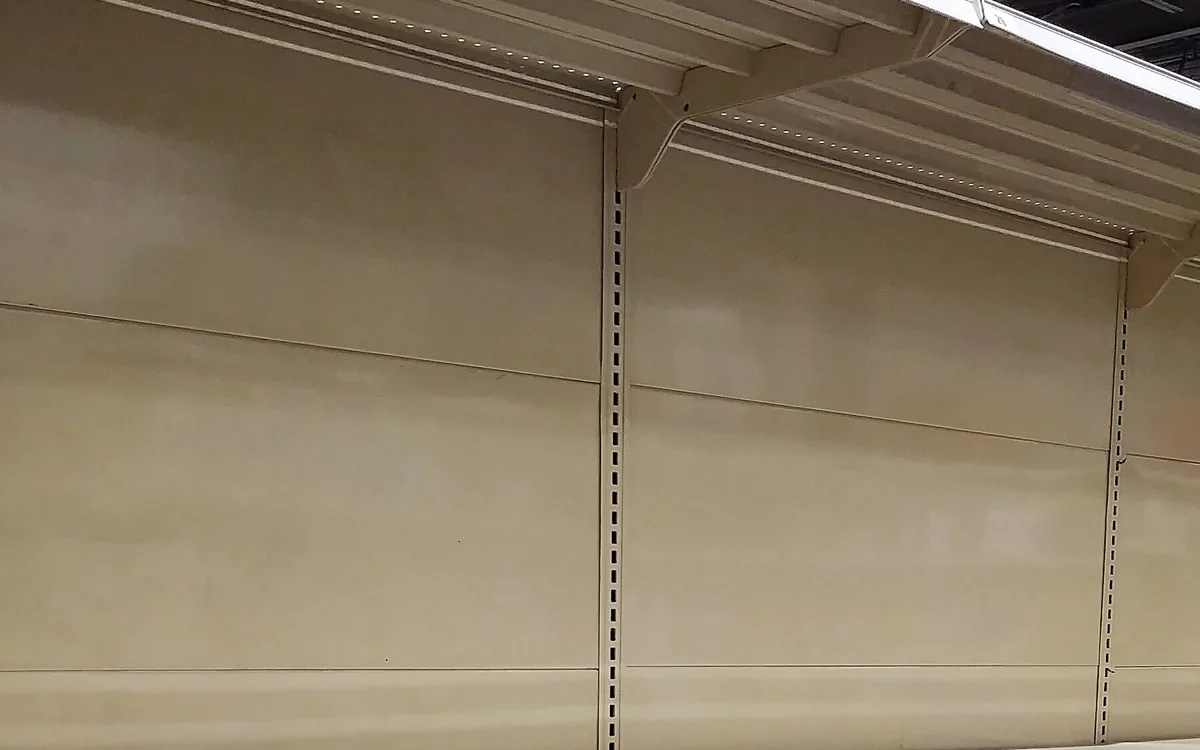
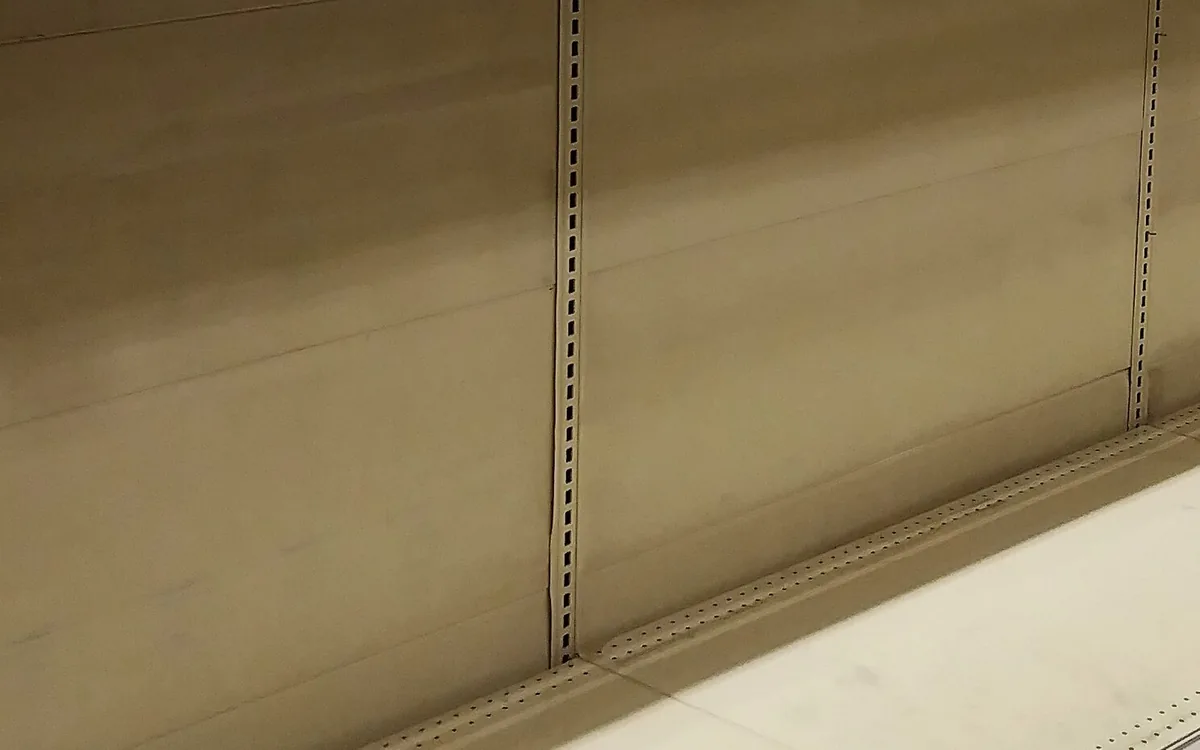
fix(infos): photos de rupture plus parlantes, sans texte ni prix — jeton 20261022fim
rupture-1 : flacons de pharmacie vides (domaine public) ; rupture-2 : coffret
à pharmacie avec un seul flacon restant (Wellcome, CC BY 4.0) ; rupture-3 :
l'étagère vide en perspective (ancienne rupture-1). Le rayon de pain avec prix
en dollars et le doublon de recadrage sont retirés. Crédits mis à jour.

diff --git a/crm/v2/index.html b/crm/v2/index.html
@@ -12,7 +12,7 @@
     if ('serviceWorker' in navigator) {
       window.addEventListener('load', function () {
         var hadController = !!navigator.serviceWorker.controller;
-        navigator.serviceWorker.register('sw.js?v=20261022fil').then(function (reg) {
+        navigator.serviceWorker.register('sw.js?v=20261022fim').then(function (reg) {
           try { reg.update(); } catch (e) {}   // vérifie tout de suite au chargement          // pendant une longue session, re-vérifier périodiquement s'il y a une nouvelle version
           setInterval(function () { try { reg.update(); } catch (e) {} }, 5 * 60 * 1000);
           // dès qu'on revient sur l'appli (onglet réactivé) : re-check -> bannière « Actualiser » si nouvelle version
@@ -189,17 +189,17 @@
     <link href="https://fonts.googleapis.com/css2?family=Geist+Mono:wght@400;500;600;700&family=Onest:wght@400;500;600;700;800&family=Martian+Mono:wght@400;500;600&display=swap" rel="stylesheet">
   </noscript>
   <link rel="dns-prefetch" href="https://images.weserv.nl">
-  <link rel="stylesheet" href="v2.css?v=20261022fil" />
-  <link rel="stylesheet" href="v2-pieces.css?v=20261022fil" />
-  <link rel="stylesheet" href="v2-accueil.css?v=20261022fil" />
-  <link rel="stylesheet" href="v2-accueil-cinq.css?v=20261022fil" />
-  <link rel="stylesheet" href="v2-accueil-widgets.css?v=20261022fil" />
-  <link rel="stylesheet" href="v2-motion.css?v=20261022fil" />
+  <link rel="stylesheet" href="v2.css?v=20261022fim" />
+  <link rel="stylesheet" href="v2-pieces.css?v=20261022fim" />
+  <link rel="stylesheet" href="v2-accueil.css?v=20261022fim" />
+  <link rel="stylesheet" href="v2-accueil-cinq.css?v=20261022fim" />
+  <link rel="stylesheet" href="v2-accueil-widgets.css?v=20261022fim" />
+  <link rel="stylesheet" href="v2-motion.css?v=20261022fim" />
   <!-- Peau « Verrière » (choix Will 12/08/2026) — chargée en dernier, purement additive -->
-  <link rel="stylesheet" href="v2-verriere.css?v=20261022fil" />
+  <link rel="stylesheet" href="v2-verriere.css?v=20261022fim" />
 
   <!-- PWA : installable sur l'écran d'accueil (iOS + Android) -->
-  <link rel="manifest" href="manifest.webmanifest?v=20261022fil" />
+  <link rel="manifest" href="manifest.webmanifest?v=20261022fim" />
   <link rel="apple-touch-icon" href="icons/apple-touch-icon.png" />  <meta name="apple-mobile-web-app-capable" content="yes" />
   <meta name="apple-mobile-web-app-status-bar-style" content="default" />
   <meta name="apple-mobile-web-app-title" content="JARVIS" />
@@ -222,7 +222,7 @@
   <!-- 11/09/2026 — perf : copie locale épinglée (même fichier que rdv.html). Servie par le
        service worker, plus de troisième domaine avant le premier rendu, et la version ne
        change plus sans nous. Même origine = traces d'erreur complètes. -->
-  <script src="vendor/supabase/supabase-2.112.2.min.js?v=20261022fil"></script>
+  <script src="vendor/supabase/supabase-2.112.2.min.js?v=20261022fim"></script>
   <script>
     window.V2_DATAV = '20261019b';   // version des données lazy (pharma-fr-data.js) — recherche & fiches prospect
     // La marque de l'OUTIL. Will, 19/08/2026 : « c'est JARVIS CRM ; où il y a
@@ -240,7 +240,7 @@
         window.V2_BRAND = { name: 'Escale Pharma', sub: 'Espace commercial', escale: true };
         document.title = 'Escale Pharma · Espace commercial';
         var mt = document.querySelector('meta[name="theme-color"]'); if (mt) mt.setAttribute('content', '#0B6E8F');
-        document.write('<link rel="stylesheet" href="../../escale/v2/escale-theme.css?v=20261022fil">');
+        document.write('<link rel="stylesheet" href="../../escale/v2/escale-theme.css?v=20261022fim">');
       }
     } catch (e) {}
     window.SUPABASE_URL = 'https://iyvavhnlhxksokkerkos.supabase.co';
@@ -256,8 +256,8 @@
     };
   </script>
   <!-- 16/10/2026 — « La garde-robe » : huit habillages de toute l'app (matière, lumière, police). Posé AVANT le premier dessin. -->
-  <link rel="stylesheet" href="v2-hab.css?v=20261022fil" />
-  <script src="v2-hab.js?v=20261022fil"></script>
+  <link rel="stylesheet" href="v2-hab.css?v=20261022fim" />
+  <script src="v2-hab.js?v=20261022fim"></script>
 </head>
 <body>
   <div class="v2-halo"></div>
@@ -265,12 +265,12 @@
 
   <!-- ═══ SOCLE (≈ 275 Ko) : le strict nécessaire à l'écran de connexion — 11/09/2026 ═══
        Avant : 80 scripts (6,05 Mo) chargés et exécutés AVANT le premier pixel. -->
-  <script src="v2-icons.js?v=20261022fil"></script>
+  <script src="v2-icons.js?v=20261022fim"></script>
   <!-- Table d'alias groupements (canonicalisation) : fusionne les doublons partout -->
-  <script src="groupement-alias.js?v=20261022fil"></script>
-  <script src="v2-boot.js?v=20261022fil"></script>
+  <script src="groupement-alias.js?v=20261022fim"></script>
+  <script src="v2-boot.js?v=20261022fim"></script>
   <!-- Profil commercial : lu DANS loadData (corrections manuelles de groupement) → avant les données -->
-  <script src="v2-profil.js?v=20261022fil"></script>
+  <script src="v2-profil.js?v=20261022fim"></script>
   <script>
     // ═══ LE RESTE (≈ 5,4 Mo) : MÊME ORDRE qu'avant, posé par V2.chargerScripts (v2-boot.js)
     // juste après le premier rendu, en scripts `async=false` (téléchargés en parallèle,
@@ -302,13 +302,13 @@
       'v2-visites.js', 'v2-campagne-cible.js', 'lgo-process-data.js', 'lgo-savoir-data.js', 'v2-lgo.js', 'v2-mallette.js', 'v2-documents.js'
     ];
   </script>
-  <link rel="stylesheet" href="vendor/leaflet/leaflet.css?v=20261022fil">
-  <link rel="stylesheet" href="vendor/leaflet/MarkerCluster.css?v=20261022fil">
-  <link rel="stylesheet" href="vendor/leaflet/MarkerCluster.Default.css?v=20261022fil">
+  <link rel="stylesheet" href="vendor/leaflet/leaflet.css?v=20261022fim">
+  <link rel="stylesheet" href="vendor/leaflet/MarkerCluster.css?v=20261022fim">
+  <link rel="stylesheet" href="vendor/leaflet/MarkerCluster.Default.css?v=20261022fim">
   <!-- App (boot), puis les deux couches qui enveloppent V2.render (sondage ≤ 500 ms : rester collées à v2-app) -->
-  <script src="v2-accueil-cinq.js?v=20261022fil"></script>
-  <script src="v2-accueil-widgets.js?v=20261022fil"></script>
-  <script src="v2-app.js?v=20261022fil"></script>
-  <script src="v2-motion.js?v=20261022fil"></script>
-  <script src="v2-bg.js?v=20261022fil"></script>
+  <script src="v2-accueil-cinq.js?v=20261022fim"></script>
+  <script src="v2-accueil-widgets.js?v=20261022fim"></script>
+  <script src="v2-app.js?v=20261022fim"></script>
+  <script src="v2-motion.js?v=20261022fim"></script>
+  <script src="v2-bg.js?v=20261022fim"></script>
 </body></html>

diff --git a/opso/v2/index.html b/opso/v2/index.html
@@ -31,11 +31,11 @@
   <link href="https://fonts.googleapis.com/css2?family=Varela+Round&family=Caveat:wght@600;700&display=swap" rel="stylesheet">
   <link rel="dns-prefetch" href="https://images.weserv.nl">
   <!-- Socle visuel V2 (partagé) + override thème vert OPSO -->
-  <link rel="stylesheet" href="../../crm/v2/v2.css?v=20261022fil" />
-  <link rel="stylesheet" href="../../crm/v2/v2-pieces.css?v=20261022fil" />
-  <link rel="stylesheet" href="opso-theme.css?v=20261022fil" />
-  <link rel="stylesheet" href="opso-ux-accueil.css?v=20261022fil" />
-  <link rel="stylesheet" href="opso-ux-listes.css?v=20261022fil" />
+  <link rel="stylesheet" href="../../crm/v2/v2.css?v=20261022fim" />
+  <link rel="stylesheet" href="../../crm/v2/v2-pieces.css?v=20261022fim" />
+  <link rel="stylesheet" href="opso-theme.css?v=20261022fim" />
+  <link rel="stylesheet" href="opso-ux-accueil.css?v=20261022fim" />
+  <link rel="stylesheet" href="opso-ux-listes.css?v=20261022fim" />
 
   <script src="https://cdn.jsdelivr.net/npm/@supabase/supabase-js@2"></script>
   <script>
@@ -59,7 +59,7 @@
   <div class="v2" id="v2-root"></div>
 
   <!-- Socle (modules partagés crm/v2) -->
-  <script src="../../crm/v2/v2-icons.js?v=20261022fil"></script>
+  <script src="../../crm/v2/v2-icons.js?v=20261022fim"></script>
   <!-- Données officines + ventes WML (source de vérité) -->
   <!-- `wml-officines-data.js` n'est plus chargé ici. Il contient les 691
        officines clientes avec leur chiffre d'affaires et 437 848 lignes de
@@ -71,32 +71,32 @@
   <!-- Listing officiel OPSO Santé (129 adhérents) : titulaire, e-mail, téléphone. Sorti du
        dépôt public le 30/09/2026 — chargé après connexion (clé `opsolisting` de PROTEGES). -->
   <!-- Achats par officine (opso/STATISTIQUES) — alimente le suivi groupement -->
-  <script src="../../crm/v2/v2-boot.js?v=20261022fil"></script>
+  <script src="../../crm/v2/v2-boot.js?v=20261022fim"></script>
   <!-- Piliers -->
   <!-- 04/09/2026, décision Will : l'app OPSO est un VISU pour le groupement,
        pas un JARVIS complet. Retirés : v2-pharma (écran commercial interne),
        v2-catalogue (toutes nos conditions), v2-fiches (outil de vente).
        Restent : Suivi groupement, Fiches marketing OPSO, Offilog. -->
 
-  <script src="../../crm/v2/v2-offilog.js?v=20261022fil"></script>
+  <script src="../../crm/v2/v2-offilog.js?v=20261022fim"></script>
   <!-- 15/09/2026 — liste des produits froids : sans elle, la famille « Froid » du Pilotage est sous-estimée -->
-  <script src="../../crm/v2/froid-data.js?v=20261022fil"></script>
-  <script src="../../crm/v2/v2-pilotage.js?v=20261022fil"></script>
+  <script src="../../crm/v2/froid-data.js?v=20261022fim"></script>
+  <script src="../../crm/v2/v2-pilotage.js?v=20261022fim"></script>
   <!-- Fiches marketing OPSO (charte Normandie Pharma) — OPSO uniquement -->
-  <script src="../../crm/v2/v2-marketing.js?v=20261022fil"></script>
+  <script src="../../crm/v2/v2-marketing.js?v=20261022fim"></script>
   <!-- « Le catalogue » côté grossiste (30/09/2026) : prend la route « marketing », classé par nombre de pharmacies -->
   <!-- 22/10/2026 — choix du catalogue (retirer / ajouter / « Sous réserve de disponibilité ») : lu par le catalogue ET l'écran de l'offre -->
-  <script src="opso-catalogue-choix-data.js?v=20261022fil"></script>
-  <script src="opso-catalogue.js?v=20261022fil"></script>
+  <script src="opso-catalogue-choix-data.js?v=20261022fim"></script>
+  <script src="opso-catalogue.js?v=20261022fim"></script>
   <!-- 15/10/2026 — « Les prix OPSO Santé » : PFHT, prix habituel, prix négocié (lus dans le seau privé, jamais dans le dépôt) -->
-  <script src="opso-prix.js?v=20261022fil"></script>
+  <script src="opso-prix.js?v=20261022fim"></script>
   <!-- Espace groupement OPSO (maquette 5, 29/09/2026) — le cap + le mois, propre à OPSO -->
-  <script src="opso-groupement.js?v=20261022fil"></script>
+  <script src="opso-groupement.js?v=20261022fim"></script>
   <!-- Écrans Pharmacies + Meilleurs achats OPSO (29/09/2026), propres à OPSO -->
-  <script src="opso-pharmacies.js?v=20261022fil"></script>
+  <script src="opso-pharmacies.js?v=20261022fim"></script>
   <!-- Suivi de la rémunération du contrat de référencement (30/09/2026) : réglage protégé, chargé après connexion -->
-  <script src="opso-remuneration.js?v=20261022fil"></script>
+  <script src="opso-remuneration.js?v=20261022fim"></script>
   <!-- App (boot en dernier) -->
-  <script src="../../crm/v2/v2-app.js?v=20261022fil"></script>
+  <script src="../../crm/v2/v2-app.js?v=20261022fim"></script>
 </body>
 </html>

diff --git a/crm/v2/img/infos/credits.html b/crm/v2/img/infos/credits.html
@@ -24,7 +24,7 @@ img{flex:none;width:120px;height:75px;object-fit:cover;border-radius:10px}a{colo
 <li><img src="rappel-2.webp" alt="" width="120" height="75" loading="lazy"><span><a href="https://commons.wikimedia.org/wiki/File:86th_Medical_Group_to_close_KMCC_pharmacy_(8368697).jpg">Photo Wikimedia Commons</a> — U.S. Air Force photo by Senior Airman Thomas Karol — Domaine public (gouvernement des États-Unis)</span></li>
 <li><img src="remboursement-1.webp" alt="" width="120" height="75" loading="lazy"><span><a href="https://commons.wikimedia.org/wiki/File:France_machine_carte_vitale.jpg">Photo Wikimedia Commons</a> — Pinpin — <a href="https://creativecommons.org/licenses/by/2.5/deed.fr">CC BY 2.5</a> — recadrée</span></li>
 <li><img src="remboursement-2.webp" alt="" width="120" height="75" loading="lazy"><span><a href="https://commons.wikimedia.org/wiki/File:H%C3%B4tel_de_Fumel_(Palais_Consulaire_de_Toulouse)_JEP_2013_03.JPG">Photo Wikimedia Commons</a> — Don-vip — <a href="https://creativecommons.org/licenses/by-sa/3.0/deed.fr">CC BY-SA 3.0</a></span></li>
-<li><img src="rupture-1.webp" alt="" width="120" height="75" loading="lazy"><span><a href="https://commons.wikimedia.org/wiki/File:Etagere_vide.jpg">Photo Wikimedia Commons</a> — Jeangagnon — <a href="https://creativecommons.org/licenses/by-sa/4.0/deed.fr">CC BY-SA 4.0</a> — recadrée</span></li>
-<li><img src="rupture-2.webp" alt="" width="120" height="75" loading="lazy"><span><a href="https://commons.wikimedia.org/wiki/File:Empty_bread_shelves_(49665889091).jpg">Photo Wikimedia Commons</a> — Dan Keck from Ohio — <a href="https://creativecommons.org/publicdomain/zero/1.0/deed.fr">CC0</a></span></li>
+<li><img src="rupture-1.webp" alt="" width="120" height="75" loading="lazy"><span><a href="https://commons.wikimedia.org/wiki/File:Satellite_Pharmacy_serves_the_KMC_(7976136).jpg">Photo Wikimedia Commons</a> — U.S. Air Force, Airman Trevor Calvert — Domaine public (gouvernement des États-Unis) — recadrée</span></li>
+<li><img src="rupture-2.webp" alt="" width="120" height="75" loading="lazy"><span><a href="https://commons.wikimedia.org/wiki/File:Medicine_chest,_for_cholera,_after_1849,_English._Chest_open_Wellcome_L0057224.jpg">Photo Wikimedia Commons</a> — Wellcome Collection — <a href="https://creativecommons.org/licenses/by/4.0/deed.fr">CC BY 4.0</a> — recadrée</span></li>
 <li><img src="rupture-3.webp" alt="" width="120" height="75" loading="lazy"><span><a href="https://commons.wikimedia.org/wiki/File:Etagere_vide.jpg">Photo Wikimedia Commons</a> — Jeangagnon — <a href="https://creativecommons.org/licenses/by-sa/4.0/deed.fr">CC BY-SA 4.0</a> — recadrée</span></li>
 </ul></main></body></html>

diff --git a/crm/v2/v2-boot.js b/crm/v2/v2-boot.js
@@ -1320,7 +1320,7 @@
     // Bumpé 29/09/2026 : v2-offilog.js change (union catalogue OPSO, retrait
     // Pharmazon/achat côté OPSO) — sans ce bump, un appareil ayant déjà l'app
     // ouverte continuerait de servir l'ancien fichier depuis le cache.
-    var V = '?v=20261022fil' + (window.V2_VER || '20260915g');
+    var V = '?v=20261022fim' + (window.V2_VER || '20260915g');
     return Promise.all(urls.map(function (u) {
       return new Promise(function (resolve) {
         var s = document.createElement('script');
@@ -1879,7 +1879,7 @@
     // de le servir, et le lecteur compacté ne trouverait pas ses dictionnaires.
     // Pas besoin de le suivre à chaque déploiement en revanche : quand `VER` de
     // sw.js change, l'activation du service worker efface tous les caches.
-    var V = '?v=20261022fil';
+    var V = '?v=20261022fim';
     V2.versionDonnees = V;   // lu par chargerScriptProtege (fiche carte)
     var promises = keys.map(function (k) {
       var src = (window.V2_DATA_BASE || '../') + DATA_FILES[k];

diff --git a/crm/v2/sw.js b/crm/v2/sw.js
@@ -10,7 +10,7 @@
 
    ⚠ Bumper VER à chaque déploiement (aligné sur le ?v= de index.html).
    ═══════════════════════════════════════════════════════════════════ */
-var VER = '20261022fil';
+var VER = '20261022fim';
 var CACHE = 'jarvis-' + VER;
 
 /* 11/09/2026 (perf, phase 3) — le SOCLE est rangé dès l'installation : les
